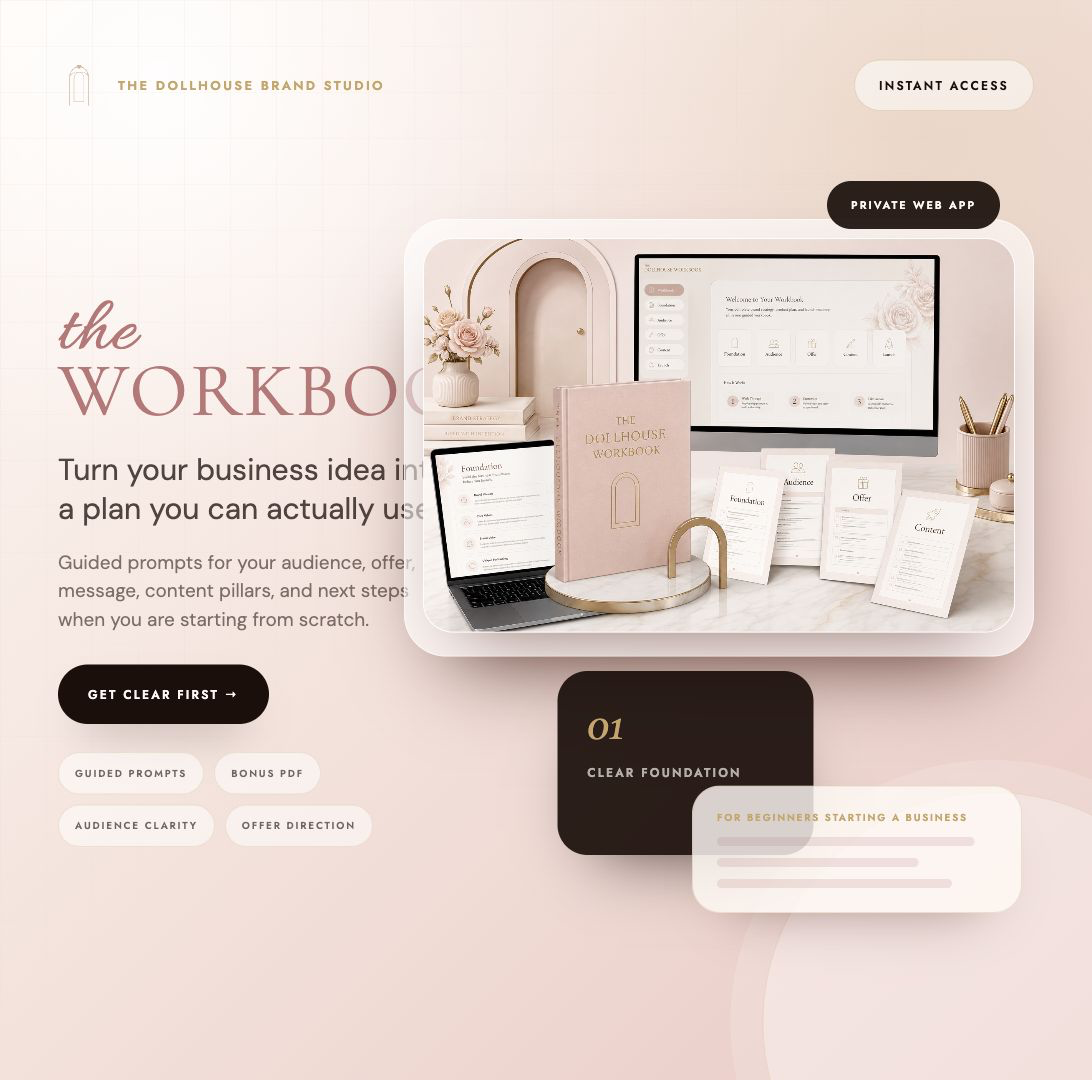
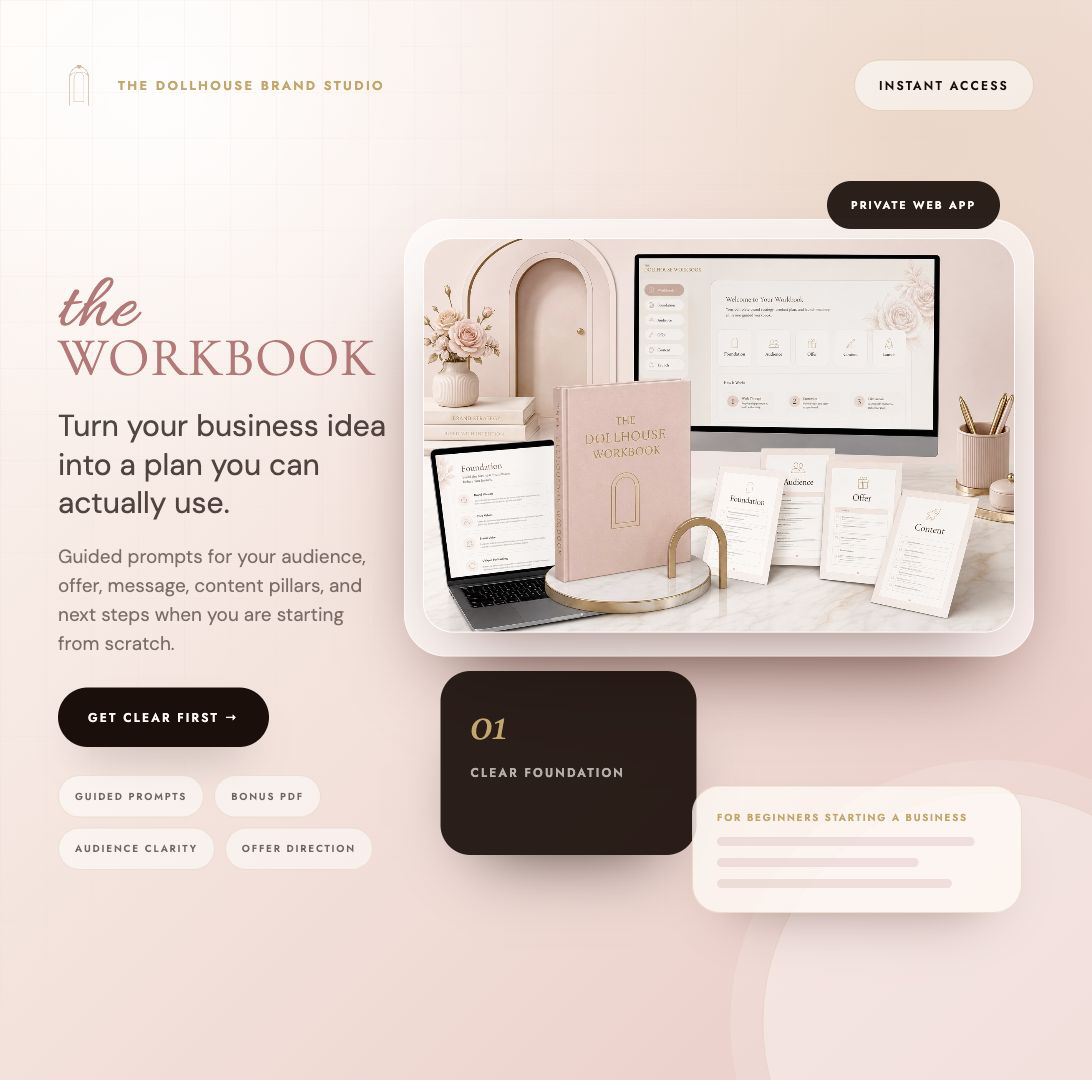
Fix Workbook Threads preview layout

Changed region(s): [[0.0311, 0.2444, 0.4048, 0.7944], [0.4048, 0.6111, 0.7473, 0.825]]

diff --git a/public/stanstore-assets/product-preview-generator.html b/public/stanstore-assets/product-preview-generator.html
@@ -249,6 +249,7 @@
 
       .social .copy {
         padding-top: 28px;
+        max-width: 330px;
       }
 
       .social .script {
@@ -265,9 +266,14 @@
         text-transform: uppercase;
       }
 
+      .social.product-workbook h1 {
+        font-size: 54px;
+        letter-spacing: 0.02em;
+      }
+
       .social .subhead {
         margin: 24px 0 0;
-        max-width: 390px;
+        max-width: 330px;
         color: rgba(29, 15, 11, 0.76);
         font-size: 30px;
         line-height: 1.28;
@@ -275,7 +281,7 @@
 
       .social .support {
         margin: 20px 0 0;
-        max-width: 378px;
+        max-width: 330px;
         color: rgba(29, 15, 11, 0.56);
         font-size: 19px;
         line-height: 1.52;
@@ -441,7 +447,7 @@
 
       const product = products[productKey] || products["brand-kit"];
       const asset = document.getElementById("asset");
-      asset.className = `asset ${format === "social" ? "social" : "thumb"}`;
+      asset.className = `asset ${format === "social" ? "social" : "thumb"} product-${productKey}`;
 
       if (format === "social") {
         asset.innerHTML = `